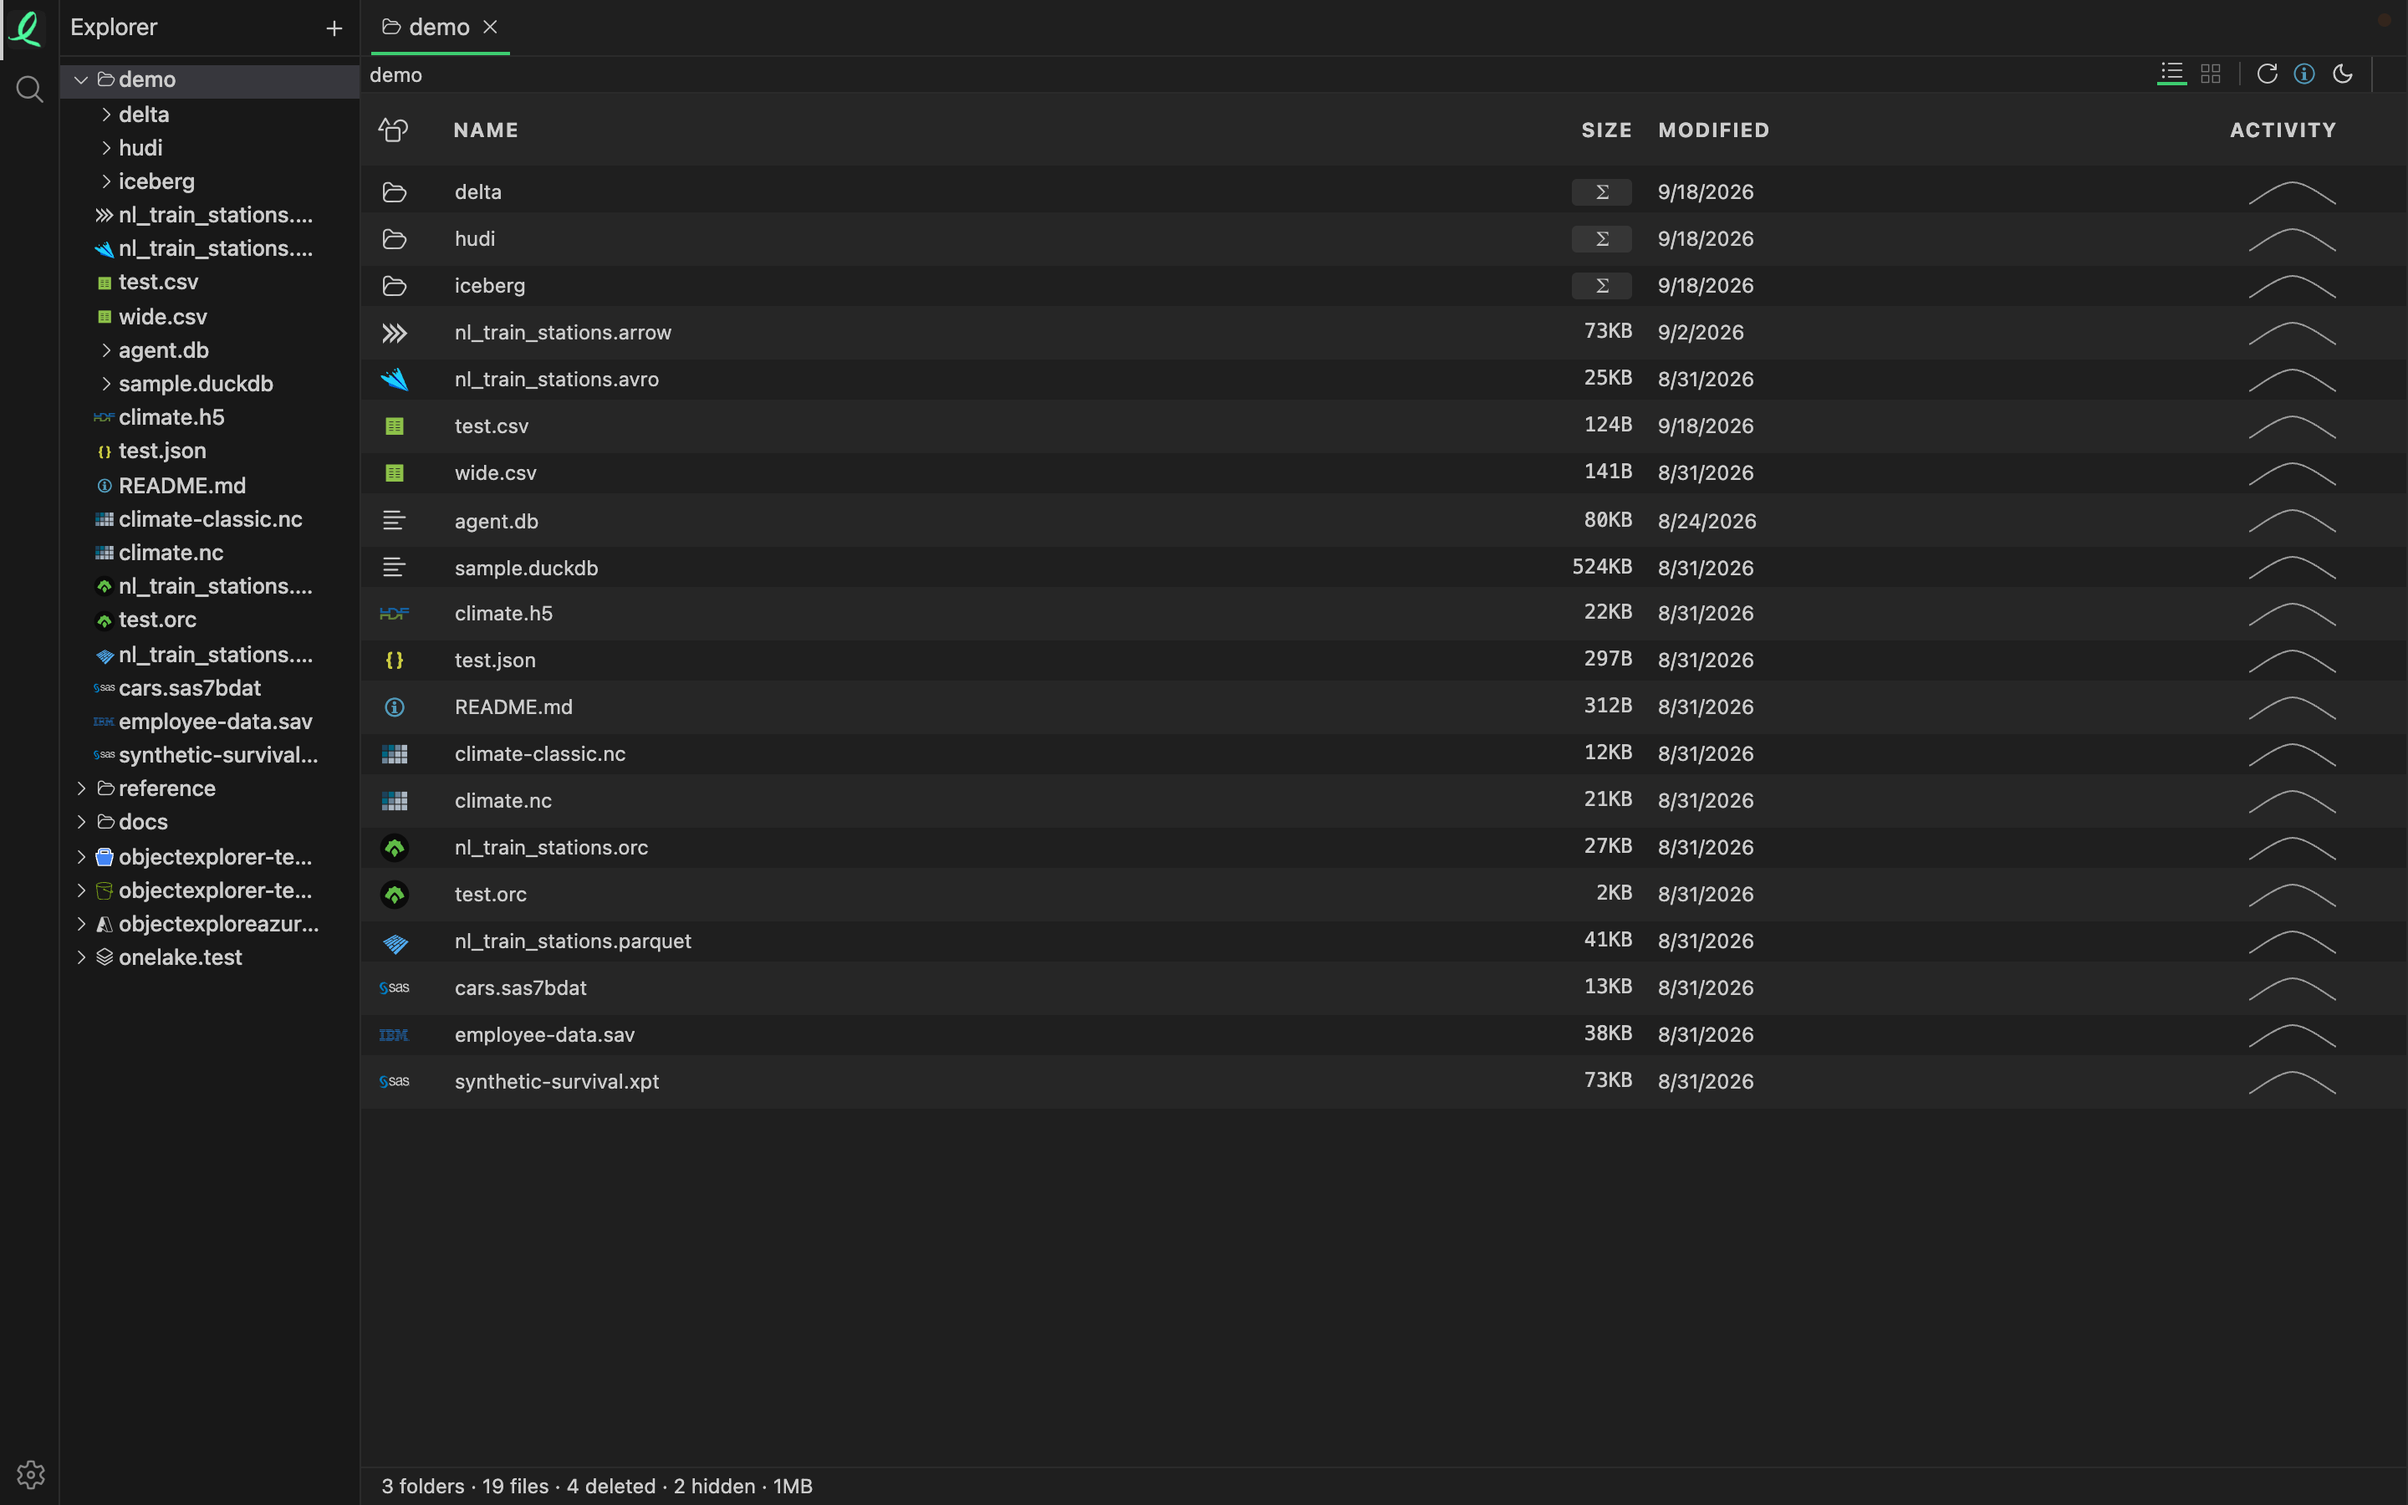
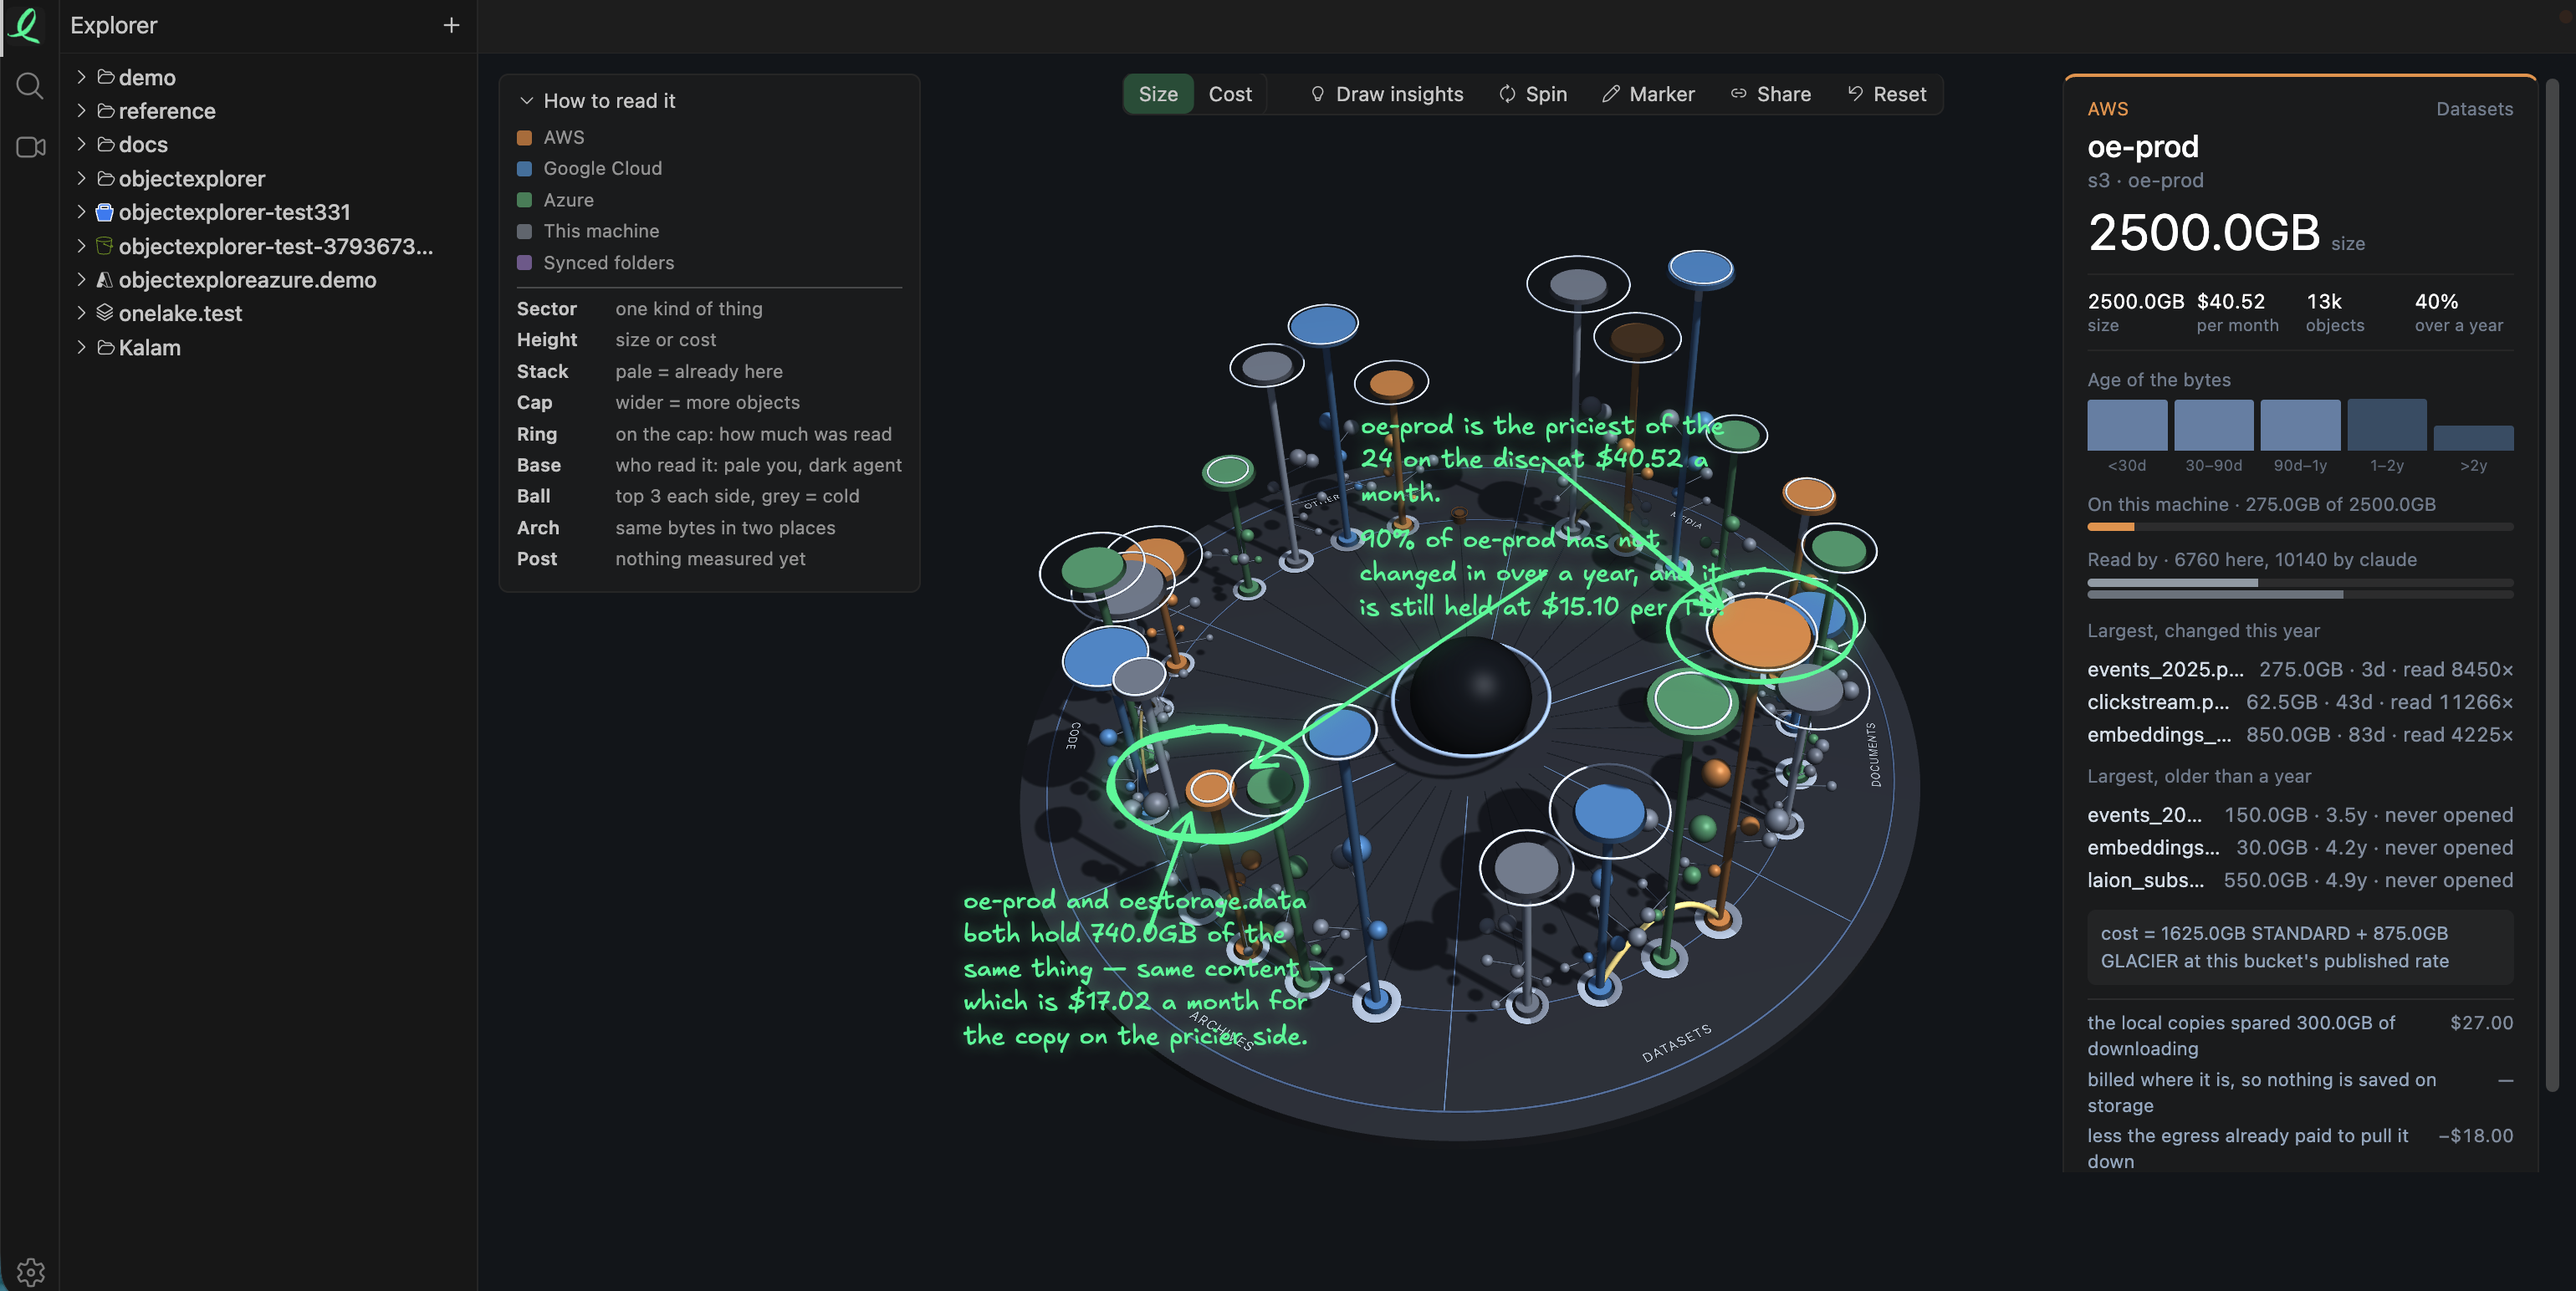
update landing page and relex cloud storage to 3

diff --git a/docs/.vitepress/theme/components/PricingTable.vue b/docs/.vitepress/theme/components/PricingTable.vue
@@ -19,7 +19,7 @@ const plans = [
 		features: [
 			"Preview 60+ formats in place",
 			"SQL, charts and notebooks on your machine",
-			"1 cloud root per provider",
+			"3 cloud roots per provider",
 			"5 local folders",
 			"5 PII column rules and 5 full-text rules",
 			"7 days of audit log history",

diff --git a/docs/explore/usage.md b/docs/explore/usage.md
@@ -136,7 +136,7 @@ which would say something untrue.
 
 ## A worked example
 
-The demo sample is seventeen roots across AWS, Google Cloud, Azure and this machine's own folders,
+The demo sample — what the **Demo** switch shows — is seventeen roots across AWS, Google Cloud, Azure and this machine's own folders,
 one of them never opened. The hub in the middle adds it up: **$162.72 a month** for 13,158 GB, 55%
 of it unchanged for over a year and 26% already on this machine. Reading it in order:
 
@@ -181,8 +181,14 @@ to let go.
 It fills the window whenever nothing else is open. **Settings → General** turns that off, and
 `⇧⌘P` → **View: Storage Usage** opens it as a tab whenever you want it.
 
-A fresh install has nothing to draw: the disc opens empty and says so, with **Add a connection…**
-under it. Add a connection, open it once, and a pole appears the next time it is drawn.
+A fresh install has nothing of its own to draw yet, so the disc opens on made-up data with the
+**Demo** switch on — the sample in the worked example above. Switch Demo off to see yours, and on again
+at any time to see what a full disc looks like. After seven days of use the disc opens on your own
+data instead; the switch still works. At [objectexplorer.com/app](https://objectexplorer.com/app/)
+the demo is always where it starts.
+
+With Demo off and nothing listed yet, the disc says so, with **Add a connection…** under it. Add a
+connection, open it once, and a pole appears the next time it is drawn.
 
 Every number on it is explained in
 [where the usage numbers come from](/reference/usage-data).

diff --git a/docs/storage/gcs.md b/docs/storage/gcs.md
@@ -18,4 +18,18 @@ A bucket belongs to a project, and the dialog lists the projects your account ca
 the one whose buckets you want in the tree. The same project selection is what
 [Cloud Logging](/analyze/logging) tails.
 
+An organisation can hand out hundreds of projects, so the dialog shows the first five and a
+**Show all** row for the rest; the filter box finds one by name or id. A project's buckets are
+listed when you open it, not before, so a long list costs nothing until you look inside.
+
+A project that refuses to list its buckets says **No permission to list buckets** and moves to the
+bottom of the list, with what Google said on hover. Opening it again asks again, so a permission
+granted a minute ago shows up without a restart.
+
+## Objects you may not read
+
+Listing a bucket and reading an object are separate permissions. An object your account may not
+read opens on **No permission to read** with the account and permission Google named, rather than a
+sign-in prompt — signing in again would not change the answer.
+
 Next: [Azure Blob Storage](/storage/azure).

diff --git a/docs/storage/connect.md b/docs/storage/connect.md
@@ -31,6 +31,9 @@ work in, so a thousand-bucket account still opens on the five you actually use. 
 unchecked in Settings to take it out of the tree without forgetting it, and checked again later
 without another trip through the picker.
 
+The Free plan adds up to three roots per provider — three buckets on S3, three on Cloud Storage, three
+containers on Azure, and so on. Pro lifts the cap; see [pricing](/pricing).
+
 ## Where the credentials go
 
 Nothing is stored in a file of ours that a provider's own tooling does not already hold, and nothing
